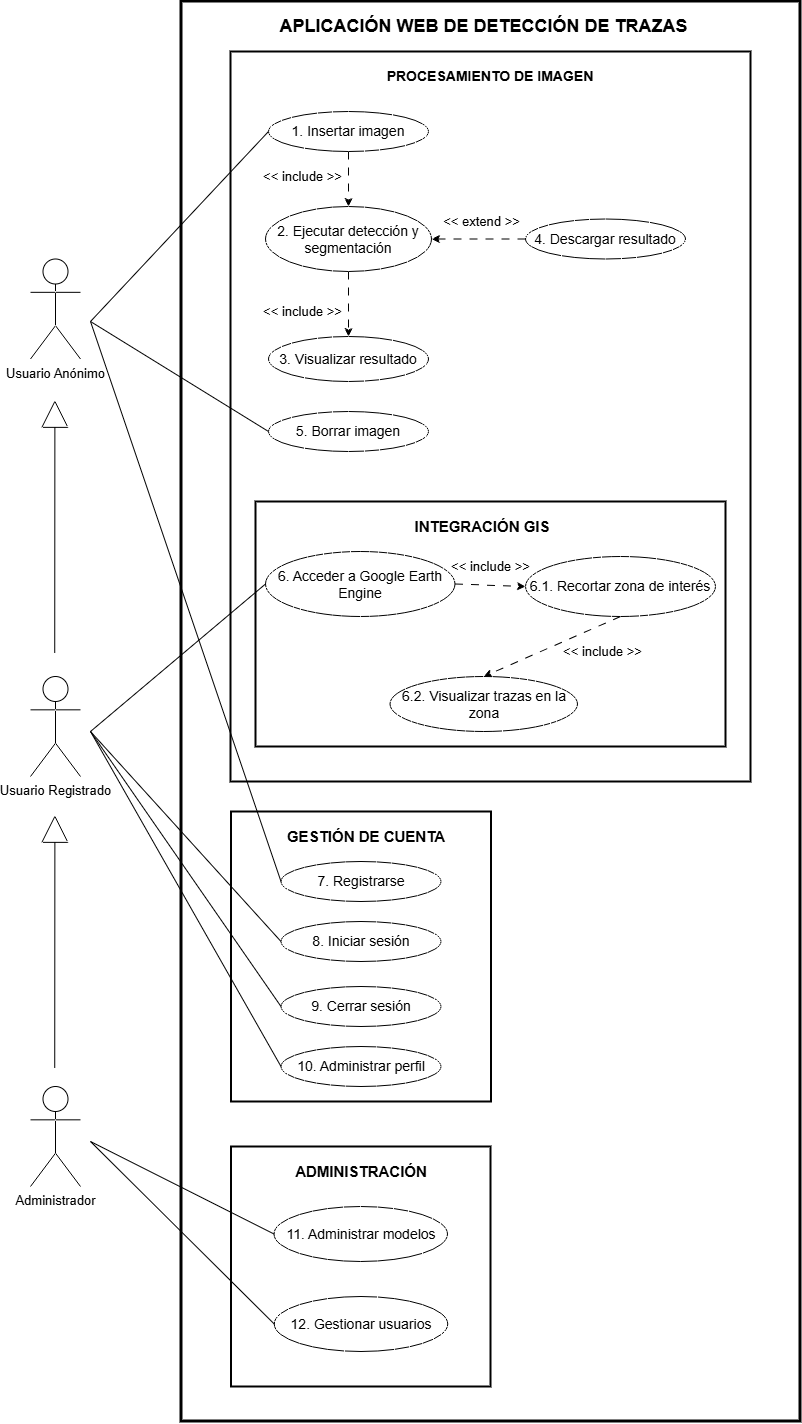
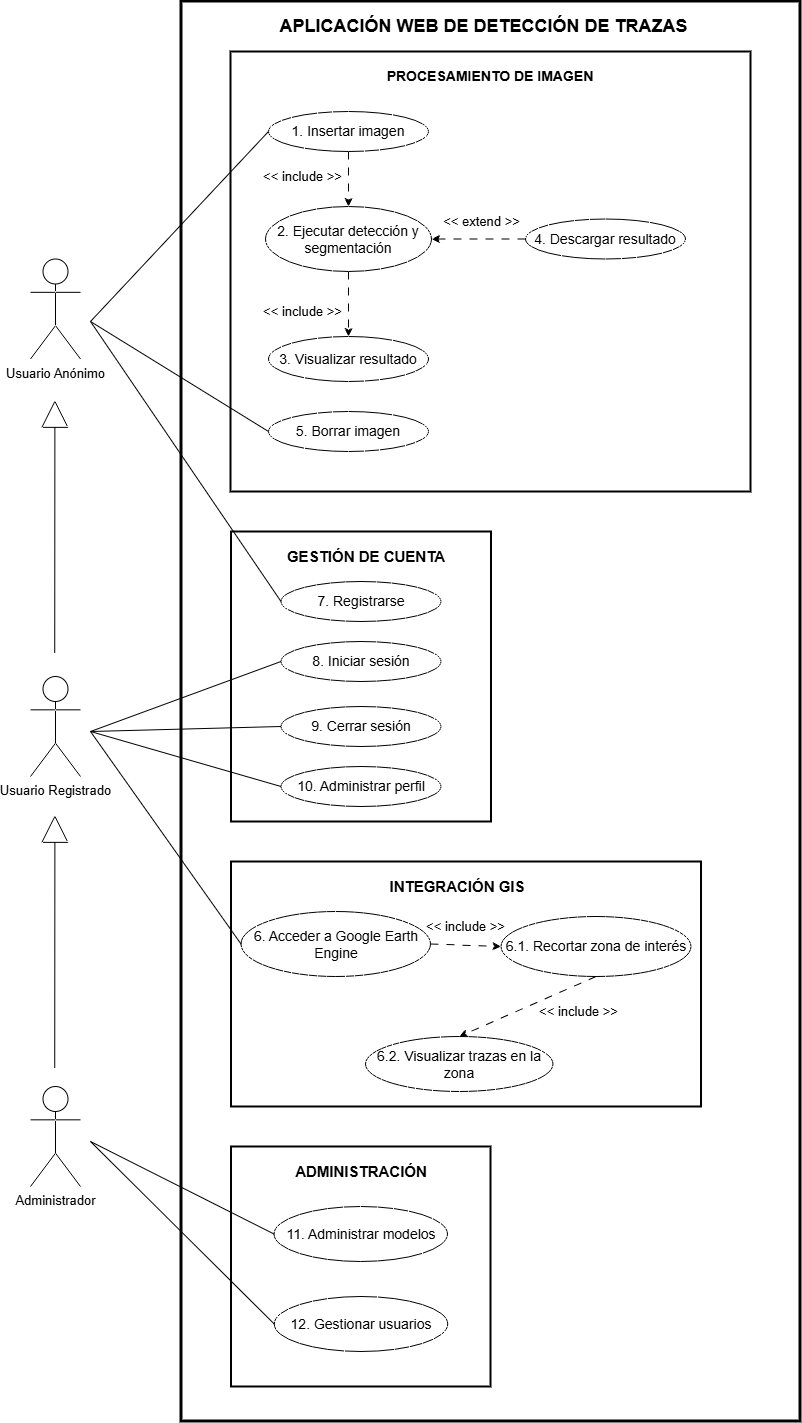
Crear diagrama E-R de la BBDD y arreglar diagrama relacional

diff --git a/doc/tex/A_Plan_proyecto.tex b/doc/tex/A_Plan_proyecto.tex
@@ -9,12 +9,12 @@ Este apartado presenta, en primer lugar, la planificación temporal seguida dura
 Finalmente, el plan se completa con un estudio de viabilidad que analiza el proyecto desde una perspectiva económica y legal. En esta parte se consideran los costes asociados al desarrollo y despliegue, así como las implicaciones derivadas del uso de herramientas, librerías y recursos de terceros, prestando especial atención a licencias software y condiciones de uso, con el objetivo de asegurar que la solución propuesta sea sostenible, reutilizable y coherente con un escenario de explotación real.
 
 \section{Planificación temporal}
-En este apartado se recoge la evolución del trabajo desarrollada a lo largo de los distintos \textit{sprints}, indicando para cada uno de ellos el periodo temporal correspondiente, los objetivos planteados, la dedicación estimada y real, así como las principales tareas llevadas a cabo. Esta organización permite reflejar de forma ordenada el avance efectivo del proyecto y la manera en que se fueron cerrando, ajustando o replanificando distintos bloques de trabajo conforme la aplicación y la memoria evolucionaban.
+En este apartado se recoge la evolución del trabajo desarrollado a lo largo de los distintos \textit{sprints}, indicando para cada uno de ellos el periodo temporal correspondiente, los objetivos planteados, la dedicación estimada y real, así como las principales tareas llevadas a cabo. Esta organización permite reflejar de forma ordenada el avance efectivo del proyecto y la manera en que se fueron cerrando, ajustando o replanificando distintos bloques de trabajo conforme la aplicación y la memoria evolucionaban.
 
-Durante los primeros \textit{sprints} del proyecto, la planificación y el seguimiento no se estructuraron todavía mediante una estimación homogénea en \textit{points}, sino principalmente a partir de horas previstas y tareas registradas de forma más informal. Como consecuencia, en esta fase inicial no fue posible generar \textit{burndown reports} consistentes ni comparables, ya que la organización del trabajo todavía no seguía un criterio de medición suficientemente estable. Por este motivo, los \textit{burndown reports} solo se incorporan a partir del \textit{Sprint 8}, momento en el que la planificación ya estaba mejor consolidada y permitía representar de forma más fiel la evolución de los \textit{open points} a lo largo de cada iteración.
+Durante los primeros \textit{sprints} del proyecto, la planificación y el seguimiento no se estructuraron todavía mediante una estimación homogénea en \textit{points}, sino principalmente a partir de horas previstas y tareas registradas de forma más informal. Como consecuencia, en esta fase inicial no fue posible generar \textit{burndown reports} consistentes ni comparables, ya que la organización del trabajo todavía no seguía un criterio de medición suficientemente estable. Por este motivo, los \textit{burndown reports} solo se incorporan a partir del \textit{Sprint~8}, momento en el que la planificación ya estaba mejor consolidada y permitía representar de forma más fiel la evolución de los \textit{open points} a lo largo de cada iteración.
 
 \subsection{Sprint 1 - Documentación e investigación de conceptos teóricos}
-El \textit{Sprint 1} se desarrolló del 25 de octubre al 7 de noviembre. En esta primera etapa, antes del inicio del segundo semestre, los \textit{sprints} estaban pensados para una duración de dos semanas, y funcionó como una toma de contacto inicial con el TFG, ya que comencé a trabajar en él antes de lo establecido oficialmente: aunque la asignatura la curso en el segundo semestre, empecé a avanzar a finales del primero. Además, la semana siguiente a iniciar el TFG comencé mis prácticas en empresa y, junto con tres asignaturas en paralelo, me resultó complicado reservar horas estables para esta tarea, aunque fui sacando tiempo progresivamente.
+El \textit{Sprint~1} se desarrolló del 25 de octubre al 7 de noviembre. En esta primera etapa, antes del inicio del segundo semestre, los \textit{sprints} estaban pensados para una duración de dos semanas, y funcionó como una toma de contacto inicial con el TFG, ya que comencé a trabajar en él antes de lo establecido oficialmente: aunque la asignatura la curso en el segundo semestre, empecé a avanzar a finales del primero. Además, la semana siguiente a iniciar el TFG comencé mis prácticas en empresa y, junto con tres asignaturas en paralelo, me resultó complicado reservar horas estables para esta tarea, aunque fui sacando tiempo progresivamente.
 
 Para este \textit{sprint} estimé una dedicación total de 22~horas. Finalmente, dediqué aproximadamente 15~horas, lo que se reflejó en que no llegué a completar todas las \textit{issues} previstas.
 
@@ -24,11 +24,11 @@ Las tareas planteadas para este \textit{sprint} fueron:
 	\item Estudio en detalle del artículo base sobre el que se apoya el TFG, para comprender su fundamentación teórica y el enfoque metodológico.
 	\item Localización y recopilación de bibliografía para los distintos conceptos a documentar.
 	\item Configuración del repositorio y del flujo de trabajo: GitHub, operación remota y entorno de desarrollo en VS Code.
-	\item Puesta en marcha del entorno \LaTeX{} con la plantilla proporcionada por los profesores y configuración de herramientas (TeXstudio, MiKTeX Console y TeXworks).
+	\item Puesta en marcha del entorno \LaTeX{} con la plantilla proporcionada por los profesores y configuración de herramientas (\TeX{}studio, MiK\TeX{} Console y \TeX{}works).
 	\item Selección y configuración de la herramienta de gestión de tareas, optando por Zube.io tras descartar ZenHub.
 \end{itemize}
 
-Durante la primera semana me centré principalmente en asentar el entorno de trabajo. Configuré GitHub y el acceso para operación remota, dejé preparado VS Code para trabajar con comodidad y monté la plantilla de \LaTeX{} proporcionada por los profesores. En paralelo, instalé y ajusté las herramientas necesarias para editar y compilar el proyecto, \textit{TeXstudio}, \textit{MiKTeX Console} y \textit{TeXworks}, ya que al principio necesitaba entender bien cómo organizar el proyecto y compilar sin fricción. También exploré opciones para la gestión del tablero de trabajo: tras comprobar que ZenHub me daba un error inesperado y sin mucha posibilidad de solución, migré a Zube.io y dejé preparada la estructura para organizar las \textit{issues}.
+Durante la primera semana me centré principalmente en asentar el entorno de trabajo. Configuré GitHub y el acceso para operación remota, dejé preparado VS Code para trabajar con comodidad y monté la plantilla de \LaTeX{} proporcionada por los profesores. En paralelo, instalé y ajusté las herramientas necesarias para editar y compilar el proyecto, \textit{\TeX{}studio}, \textit{MiK\TeX{} Console} y \textit{\TeX{}works}, ya que al principio necesitaba entender bien cómo organizar el proyecto y compilar sin fricción. También exploré opciones para la gestión del tablero de trabajo: tras comprobar que ZenHub me daba un error inesperado y sin mucha posibilidad de solución, migré a Zube.io y dejé preparada la estructura para organizar las \textit{issues}.
 
 A lo largo de las dos semanas, la parte principal del \textit{sprint} fue la investigación y búsqueda bibliográfica. Dediqué la mayor parte del tiempo a leer y estudiar diferentes \textit{papers} científicos para asentar la base teórica, especialmente el artículo principal en el que se fundamenta el TFG, que trabajé en detalle para comprender correctamente su planteamiento. Como resultado de esta fase, conseguí recopilar bibliografía para la mayoría de los conceptos que tenía previstos documentar, aunque la redacción completa no llegó a cerrarse en este \textit{sprint}.
 
@@ -50,7 +50,7 @@ Durante la primera semana me centré en dos frentes. Por un lado, diseñé el \t
 
 En la segunda semana abordé la implementación inicial de la aplicación. Construí un prototipo sencillo con los cuatro botones definidos y dejé operativo el flujo mínimo: la aplicación recibía una imagen en el servidor y se mostraba en el \textit{frontend} con un trazado simple de líneas de esquina a esquina. Este paso fue clave para validar de forma temprana el formato del JSON de trazas y confirmar que el intercambio de datos entre \textit{backend} y \textit{frontend} estaba funcionando como esperaba. Además, documenté el código y añadí \textit{tests} básicos para asegurar que este acercamiento inicial quedaba mínimamente cubierto.
 
-A lo largo del \textit{sprint} también intenté avanzar en la redacción de conceptos teóricos arrastrados del \textit{sprint} anterior, pero apenas conseguí progresar en esa parte debido a la carga de trabajo asociada a la puesta en marcha del prototipo. Aun así, sí logré completar las tareas específicas definidas para este \textit{sprint}. La única excepción fue la integración del \textit{mockup} en la memoria, que no pude dejar lista a tiempo por un fallo en la configuración del entorno de \LaTeX{} en TeXstudio, lo que obligó a posponer esa incorporación.
+A lo largo del \textit{sprint} también intenté avanzar en la redacción de conceptos teóricos arrastrados del \textit{sprint} anterior, pero apenas conseguí progresar en esa parte debido a la carga de trabajo asociada a la puesta en marcha del prototipo. Aun así, sí logré completar las tareas específicas definidas para este \textit{sprint}. La única excepción fue la integración del \textit{mockup} en la memoria, que no pude dejar lista a tiempo por un fallo en la configuración del entorno de \LaTeX{} en \TeX{}studio, lo que obligó a posponer esa incorporación.
 
 \subsection{Sprint 3 - Ajustes en estilo y aplicación de la web}
 El \textit{Sprint 3} se desarrolló entre el 22 de noviembre y el 6 de diciembre. Para este \textit{sprint} estimé inicialmente 4,5~horas, ya que en ese momento todavía no estaba creando todas las tareas de forma consistente y únicamente llegué a registrar algunas. Sin embargo, la dedicación real fue notablemente superior, alcanzando aproximadamente 18~horas, debido a que se fueron abriendo frentes adicionales de revisión y ajuste conforme avanzaba el prototipo.
@@ -210,7 +210,7 @@ Finalmente, el último día realicé la comparativa entre el modelo proporcionad
 	\label{fig:brsprint8}
 \end{figure}
 
-Como se observa en el \textit{burndown}~\ref{fig:brsprint8}, la reducción de \textit{open points} fue más lenta que la ideal durante la mayor parte del \textit{sprint}, debido a los ajustes iterativos en la interfaz y la infraestructura, tareas que ocupaban un gran número de puntos, aunque fueron siendo ejecutadas durante toda la semana; no obstante, en los últimos días se cerró un bloque grande de trabajo, quedando el \textit{sprint} prácticamente completado el 18 de febrero, un día antes de lo planificado.
+Como se observa en el \textit{burndown} (Figura~\ref{fig:brsprint8}), la reducción de \textit{open points} fue más lenta que la ideal durante la mayor parte del \textit{sprint}, debido a los ajustes iterativos en la interfaz y la infraestructura, tareas que ocupaban un gran número de puntos, aunque fueron siendo ejecutadas durante toda la semana; no obstante, en los últimos días se cerró un bloque grande de trabajo, quedando el \textit{sprint} prácticamente completado el 18 de febrero, un día antes de lo planificado.
 
 \subsection{Sprint 9 - Cierre de la release}
 Este \textit{sprint} abarcó del 19 al 26 de febrero, con una duración de una semana. La planificación inicial contemplaba 22~horas de trabajo, a las que se sumaban 2~\textit{points} arrastrados del \textit{sprint} anterior, por lo que la carga prevista equivalía aproximadamente a 24~horas. Finalmente, la dedicación real fue de 25~horas y 25~minutos.
@@ -249,7 +249,7 @@ Más adelante, llevé a cabo la tarea central del \textit{sprint}, que fue susti
 
 Además, implementé la lógica de descarga tanto de la imagen original como de la imagen resultante y del JSON de trazas, con el objetivo de que el usuario pudiese conservar fácilmente los archivos generados durante el procesamiento. Con ello, la aplicación resultó más completa desde el punto de vista funcional y más cercana al cierre de la primera \textit{release}.
 
-Por último, realicé varias correcciones en el Capítulo 3, destacando especialmente la creación de una tabla para presentar de forma estructurada los \textit{encoders} empleados en el artículo científico en el que baso el proyecto~\cite{diezpastora2025trails}. Paralelamente, aproveché este \textit{sprint} para terminar de redactar los \textit{sprints} anteriores que seguían pendientes desde hacía varias iteraciones, dejando así la planificación temporal mucho más alineada con el estado real del trabajo.
+Por último, realicé varias correcciones en el Capítulo 3 del documento de la memoria, destacando especialmente la creación de una tabla para presentar de forma estructurada los \textit{encoders} empleados en el artículo científico en el que baso el proyecto~\cite{diezpastora2025trails}. Paralelamente, aproveché este \textit{sprint} para terminar de redactar los \textit{sprints} anteriores que seguían pendientes desde hacía varias iteraciones, dejando así la planificación temporal mucho más alineada con el estado real del trabajo.
 
 \begin{figure}
 	\centering
@@ -258,7 +258,7 @@ Por último, realicé varias correcciones en el Capítulo 3, destacando especial
 	\label{fig:brsprint9}
 \end{figure}
 
-Como se observa en la Figura~\ref{fig:brsprint9}, durante los primeros días el avance fue más lento e incluso hubo un ligero repunte de \textit{open points}, debido a que seguían apareciendo ajustes derivados del cierre técnico de la \textit{release}. No obstante, a partir de la resolución de las tareas principales de integración y refactorización, el volumen pendiente descendió con rapidez, quedando el \textit{sprint} completamente cerrado el 26 de febrero, cerrando así la primera \textit{release} ese mismo día tras la reunión semanal.
+Como se observa en el burndown de este \textit{sprint} (Figura~\ref{fig:brsprint9}), durante los primeros días el avance fue más lento e incluso hubo un ligero repunte de \textit{open points}, debido a que seguían apareciendo ajustes derivados del cierre técnico de la \textit{release}. No obstante, a partir de la resolución de las tareas principales de integración y refactorización, el volumen pendiente descendió con rapidez, quedando el \textit{sprint} completamente cerrado el 26 de febrero, cerrando así la primera \textit{release} ese mismo día tras la reunión semanal.
 
 \subsection{Sprint 10 - Primeros pasos con Google Earth Engine}
 El \textit{Sprint 10} se centró en abrir una nueva línea de trabajo orientada a la integración de Google Earth Engine (GEE) como alternativa para la obtención de imágenes de entrada, a la vez que se consolidaban pequeños ajustes en la aplicación web y en la documentación. Este \textit{sprint} abarcó del 26/02/26 hasta el 05/03/26 y estimé una dedicación total de 25~horas, aunque finalmente invertí 21,4~horas, al poder cerrar varias tareas con menor esfuerzo del previsto.
@@ -309,7 +309,33 @@ Más adelante, desarrollé un prototipo HTML mínimo en el que el usuario podía
 	\label{fig:brsprint10}
 \end{figure}
 
-Como se aprecia en el \textit{burndown} del \textit{sprint}~\ref{fig:brsprint10}, el volumen de \textit{open points} se mantuvo prácticamente estable durante los primeros días, ya que el trabajo se concentró en investigación y preparación y en tareas de ajuste poco visibles. A partir del 2 de marzo el descenso se aceleró al cerrarse los hitos principales y consolidarse los cambios, quedando el \textit{sprint} completamente finalizado el 5 de marzo.
+Como se aprecia en el \textit{burndown} del \textit{sprint} (Figura~\ref{fig:brsprint10}), el volumen de \textit{open points} se mantuvo prácticamente estable durante los primeros días, ya que el trabajo se concentró en investigación y preparación y en tareas de ajuste poco visibles. A partir del 2 de marzo el descenso se aceleró al cerrarse los hitos principales y consolidarse los cambios, quedando el \textit{sprint} completamente finalizado el 5 de marzo.
+
+\subsection{Sprint 11 - Diseños para la nueva funcionalidad}
+El \textit{Sprint~11} se desarrolló entre el 5 y el 12 de marzo. Para este \textit{sprint} estimé una dedicación total de 13~horas, y finalmente invertí 12~horas y 35~minutos. En este caso, la planificación ya contemplaba que dispondría de poco tiempo durante la semana, por lo que la mayor parte del trabajo se concentró en los últimos días del \textit{sprint}, avanzando únicamente en tareas clave y de preparación.
+
+Los objetivos definidos para este \textit{sprint} fueron los siguientes:
+\begin{itemize}
+	\item Corregir el \textit{label} asociado al estado de la imagen en la aplicación.
+	\item Mejorar algunos \textit{tests} para que provocasen errores de forma controlada y validasen correctamente el comportamiento esperado.
+	\item Crear el \textit{mockup} de las nuevas pantallas necesarias para la siguiente funcionalidad de la aplicación.
+	\item Diseñar el modelo de datos: elaborar el diagrama E-R de la aplicación.
+\end{itemize}
+
+En primer lugar, realicé un ajuste puntual en la interfaz corrigiendo el \textit{label} que indicaba el estado de la imagen, ya que en algunos casos no reflejaba correctamente la situación del flujo. En paralelo, reforcé ciertos \textit{tests} para que, en escenarios concretos, generasen fallos controlados y permitiesen comprobar que el sistema respondía de forma adecuada ante entradas no válidas o estados inconsistentes.
+
+El bloque principal del \textit{sprint} consistió en preparar el diseño de la nueva funcionalidad. Por un lado, elaboré el \textit{mockup} de las pantallas adicionales para fijar el flujo de interacción y clarificar qué elementos debían incorporarse en la aplicación. Por otro, trabajé en el diseño de base de datos: mi intención era construir el diagrama entidad--relación (E-R), pero terminé generando directamente el esquema relacional. Posteriormente detecté que esta aproximación no era la correcta para el entregable esperado, por lo que dejé previsto corregirlo y completar el diagrama en el \textit{sprint} siguiente.
+
+Finalmente, al cierre del \textit{sprint}, subí al repositorio los \textit{notebooks} desarrollados en el \textit{sprint} anterior. No tenía claro si debían incluirse como parte del código versionado o mantenerse únicamente como material de trabajo, y opté por incorporarlos para asegurar trazabilidad, aunque lo hice con una iteración de retraso respecto a cuando se habían elaborado.
+
+\begin{figure}
+	\centering
+	\includegraphics[width=0.7\linewidth]{img/BR_Sprint11}
+	\caption[Burndown Report del Sprint 11]{Burndown Report del Sprint 11.}
+	\label{fig:brsprint11}
+\end{figure}
+
+Como se aprecia en la Figura~\ref{fig:brsprint11}, el avance se mantuvo prácticamente plano durante la mayor parte del \textit{sprint}, concentrándose el cierre de tareas en los últimos días, en línea con la disponibilidad reducida que se había previsto para esta semana.
 
 \section{Estudio de viabilidad}
 

diff --git a/doc/tex/C_Diseno.tex b/doc/tex/C_Diseno.tex
@@ -7,15 +7,36 @@ El diseño de datos define la estructura de persistencia que soporta el funciona
 
 \begin{figure}
 	\centering
-	\includegraphics[width=0.7\linewidth]{img/Esquema_inicial_BBDD}
-	\caption[Esquema inicial de la BBDD]{Esquema inicial de la BBDD.}
-	\label{fig:esquemainicialbbdd}
+	\includegraphics[width=1\linewidth]{img/Diagrama_E-R}
+	\caption[Diagrama E-R de la base de datos]{Diagrama E-R de la base de datos.}
+	\label{fig:esquemaerbbdd}
 \end{figure}
 
-En la Figura~\ref{fig:esquemainicialbbdd} se muestra el esquema inicial de la base de datos, organizado en cuatro entidades: \textit{Usuario}, \textit{Parcela}, \textit{Fotos} y \textit{Trazas}. La tabla \textit{Usuario} centraliza la información de autenticación y control de acceso, incluyendo nombre de usuario, contraseña, correo electrónico, rol y fecha de alta, mientras que \textit{Parcela} representa unidades de trabajo asociadas a un usuario mediante la clave foránea \texttt{usuario\_id}. De este modo, se establece una relación uno a muchos, un mismo usuario puede registrar múltiples parcelas, lo que facilita segmentar el histórico de trabajo y mantener separación lógica entre diferentes zonas de interés.
+\subsection{Modelo Entidad--Relación}
+El diagrama general E/R se muestra en la Figura~\ref{fig:esquemaerbbdd}. Para el manejo de la información necesaria en el flujo de la aplicación se han definido las siguientes entidades, junto con sus relaciones y cardinalidades:
 
-La entidad \textit{Fotos} modela cada imagen asociada a una parcela, incorporando metadatos relevantes para el análisis, como fecha, resolución expresada en valor y unidad, coordenadas geográficas, ruta de almacenamiento, formato y tamaño. Esta tabla se vincula a \textit{Parcela} mediante \texttt{parcela\_id}, permitiendo conservar un registro cronológico y georreferenciado de las entradas procesadas. Finalmente, \textit{Trazas} se relaciona con \textit{Fotos} a través de \texttt{foto\_id}, reflejando que los resultados de segmentación o detección dependen directamente de una imagen concreta.
+\begin{itemize}
+	\item \textbf{Usuario:} representa a la persona registrada en la aplicación y constituye el origen del control de acceso. Incluye un identificador que actúa como clave primaria, así como atributos de autenticación y perfil, como el nombre de usuario, el correo electrónico, la contraseña, el rol y la fecha de alta. Un usuario puede crear múltiples parcelas, lo que queda reflejado mediante una relación uno a muchos.
+	
+	\item \textbf{Parcela:} representa una unidad de trabajo asociada a un usuario, entendida como el área seleccionada por el mismo sobre el que se pretende organizar la información de análisis. Dispone de un identificador como clave primaria y mantiene una clave foránea que referencia al usuario propietario. Además, almacena atributos espaciales y descriptivos, como el tamaño en metros, el punto de origen, el punto final y una fecha asociada a la parcela. Cada una de ellas puede generar un \textit{grid} con múltiples fotos, estableciendo de nuevo una relación uno a muchos.
+	
+	\item \textbf{Foto:} modela cada imagen procesada dentro de una parcela y concentra los metadatos necesarios para su trazabilidad. Incluye un identificador como clave primaria, una clave foránea hacia la parcela y atributos como fecha de captura, resolución expresada en valor y unidad, coordenadas geográficas y rutas de almacenamiento, diferenciando la ruta de la imagen original y la ruta del resultado de trazas. Una foto puede contener exactamente un conjunto de trazas asociado, formalizado mediante una relación uno a uno.
+	
+	\item \textbf{Trazas:} representa el resultado generado por el sistema a partir de una foto concreta. Contiene un identificador como clave primaria y una ruta asociada al recurso resultante. Cada uno de estos ficheros .json están asociados a una imagen, por ello, obtenemos la relación uno a uno.
+\end{itemize}
 
+\begin{figure}
+	\centering
+	\includegraphics[width=1\linewidth]{img/Esquema_relacional_BBDD}
+	\caption[Diagrama relacional de la BBDD]{Diagrama relacional de la BBDD.}
+	\label{fig:esquemarelacionalbbdd}
+\end{figure}
+
+En la Figura~\ref{fig:esquemarelacionalbbdd} se recoge la traducción del modelo conceptual al esquema relacional, estructurado en las tablas \textit{Usuario}, \textit{Parcela} y \textit{Foto}. La tabla \textit{Usuario} concentra los atributos de identificación y control de acceso, mientras que \textit{Parcela} actúa como entidad dependiente mediante la clave foránea \texttt{usuario\_id}, estableciendo una relación uno a muchos que permite organizar el histórico de trabajo por zonas o unidades de análisis. A su vez, la tabla \textit{Foto} se vincula a \textit{Parcela} a través de \texttt{parcela\_id}, almacenando tanto metadatos relevantes para caracterizar la imagen, como la fecha de captura y la resolución expresada en valor y unidad, como información de georreferenciación mediante latitud y longitud.
+
+En este esquema relacional, el resultado del procesamiento no se modela como una entidad independiente, sino que se incorpora directamente en \textit{Foto} mediante el atributo \texttt{ruta\_trazas}. De este modo, cada registro de imagen incluye la ruta al recurso original, \texttt{ruta\_foto}, y la ruta al artefacto generado tras la inferencia, \texttt{ruta\_trazas}, estableciendo una correspondencia directa entre entrada y salida. Esta decisión simplifica el modelo de datos en la fase actual del proyecto, al asumir un único resultado asociado por imagen procesada, y reduce la necesidad de \textit{joins} para recuperar el resultado, manteniendo al mismo tiempo la trazabilidad necesaria para visualización, descarga y auditoría del flujo de procesamiento. 
+
+En caso de evolución futura hacia múltiples ejecuciones o salidas por imagen, este diseño podría extenderse sin ambigüedad mediante la reintroducción de una entidad específica para resultados o ejecuciones.
 
 \section{Diseño arquitectónico}
 \begin{figure}[h]
@@ -30,8 +51,6 @@ La entidad \textit{Fotos} modela cada imagen asociada a una parcela, incorporand
 	\includegraphics[width=\textwidth]{../assets/mockup/Mockup_web_pte2.pdf}
 	\caption[Mockup de la web 2]{Mockup de la web (parte 2).}
 \end{figure}
-
-\subsection{Arquitectura general de la aplicación}
 
 \begin{figure}
 	\centering

diff --git a/doc/anexos.tex b/doc/anexos.tex
@@ -357,9 +357,9 @@
 
 
 % Datos de portada
-\title{título del TFG \\Documentación Técnica}
-\author{nombre alumno}
-\tutor{nombre tutor}
+\title{Aplicación web para seguimiento de presión de herbivoría mediante visión por computador \\Documentación Técnica}
+\author{Marcos Zamorano Lasso}
+\tutor{Álvar Arnaiz González y David Martínez Acha}
 \date{\today}
 
 \begin{document}

diff --git a/doc/tex/B_Requisitos.tex b/doc/tex/B_Requisitos.tex
@@ -17,7 +17,7 @@ En la figura~\ref{fig:casosdeuso} se recoge el diagrama general de casos de uso 
 \begin{figure}[p]
 	\centering
 	\includegraphics[width=\linewidth,height=0.9\textheight,keepaspectratio]{img/casosdeuso}
-	\caption[Diagrama de Casos de Uso]{Diagrama de casos de uso de la aplicación}
+	\caption[Diagrama general de Casos de Uso]{Diagrama general de casos de uso de la aplicación}
 	\label{fig:casosdeuso}
 \end{figure}
 